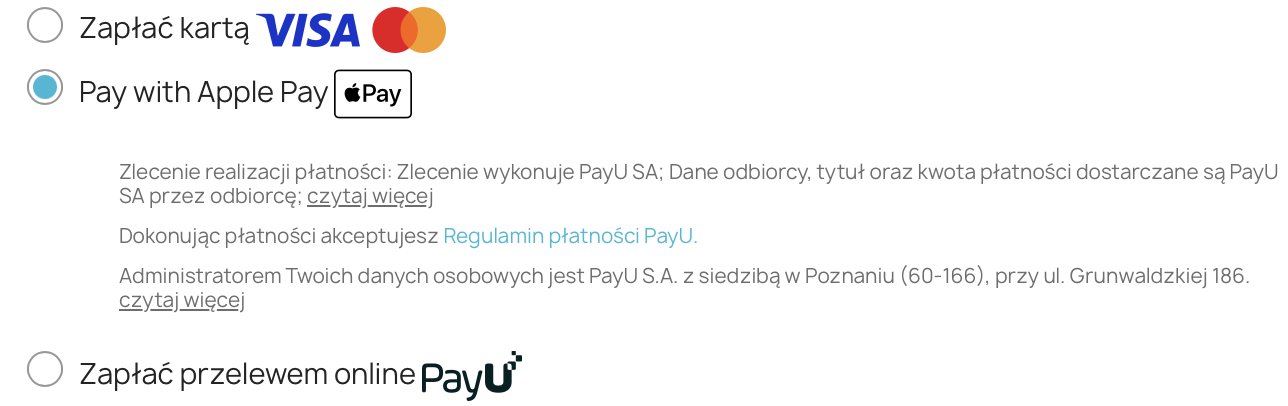
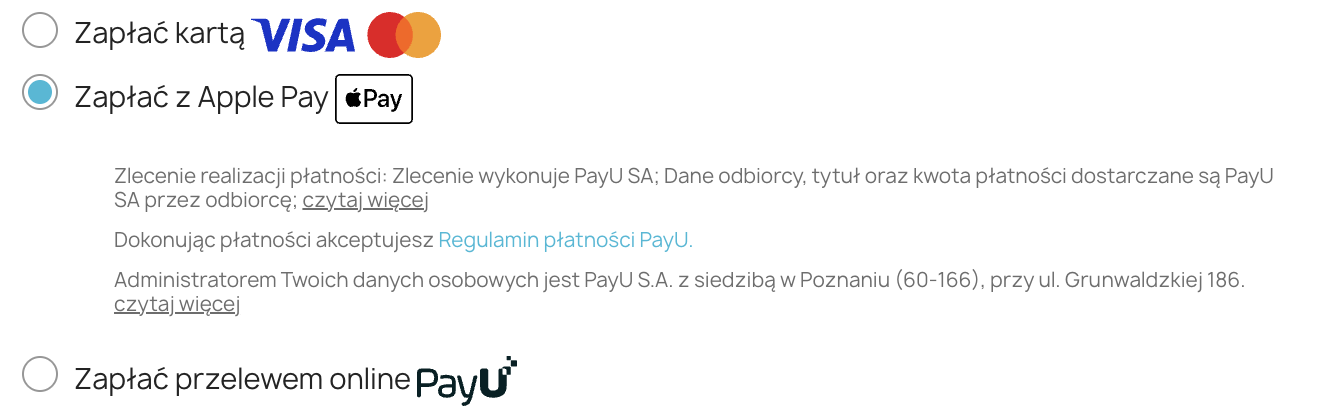
Add translations

diff --git a/payu/translations/pl.php b/payu/translations/pl.php
@@ -53,6 +53,14 @@ $_MODULE['<{payu}prestashop>payu_35ae0adc84718baea6dd215b30996a3a'] = 'Twój Goo
 $_MODULE['<{payu}prestashop>payu_9527430b599689da3a619a70095e0184'] = 'instrukcją';
 $_MODULE['<{payu}prestashop>payu_3aea295b2578bd8c6b2fc7938afde057'] = 'Google Merchant Name';
 $_MODULE['<{payu}prestashop>payu_fe942560f728d52f8e44a296095f3fd0'] = 'Twój Google Merchant name, widoczny dla kupującego.';
+$_MODULE['<{payu}prestashop>payu_697abb9a95cfe2c76cc3b71312ea176a'] = 'Apple Pay';
+$_MODULE['<{payu}prestashop>payu_d934b1ea749917e61c352859749307e0'] = 'Włącz Apple Pay';
+$_MODULE['<{payu}prestashop>payu_57ea1a814b12bff97d06e62d6cb435ab'] = 'Nazwa domeny';
+$_MODULE['<{payu}prestashop>payu_5d7f4c2c27818f8f31dc57a8e0e4d690'] = 'Nazwa domeny została zarejestrowana w serwisie Apple. Aby zarejestrować domenę, postępuj zgodnie z instrukcjami';
+$_MODULE['<{payu}prestashop>payu_cbde2df6a7c89370edc449dc5705d30c'] = 'intrukcje';
+$_MODULE['<{payu}prestashop>payu_279ac5dd73c3a5783ebeb10e172c4f38'] = 'WAŻNE';
+$_MODULE['<{payu}prestashop>payu_b48968e1c912da07df5e8d6d246291ec'] = 'Nazwa wyświetlana';
+$_MODULE['<{payu}prestashop>payu_1ba36b8d3c88096d5b850acb7b8d1e63'] = 'Nazwa wyświetlana w Apple Pay. Ciąg znaków UTF-8 o długości nieprzekraczającej 64 znaków, zawierający kanoniczną nazwę Twojego sklepu, nadającą się do wyświetlenia.';
 $_MODULE['<{payu}prestashop>payu_deae7d0459da98d05a517d9d45329c51'] = 'Konfiguracja POS-a - dla waluty: ';
 $_MODULE['<{payu}prestashop>payu_e9adbbd1cd7eff7e1a588c31f79521d5'] = 'Id punktu płatności';
 $_MODULE['<{payu}prestashop>payu_dbf679af91c0dcb70d6f4903907753a4'] = 'Drugi klucz MD5';
@@ -70,6 +78,7 @@ $_MODULE['<{payu}prestashop>payu_98b1aeea3b809f126c8c568af1be0174'] = 'Zapłać 
 $_MODULE['<{payu}prestashop>payu_8b30b72eb751e7549e99b8e2753098df'] = 'Zapłać na raty';
 $_MODULE['<{payu}prestashop>payu_cc21116ce900f38c0691823ab193b9a3'] = 'Zapłać kartą';
 $_MODULE['<{payu}prestashop>payu_ad7608ada46c853f7d02a30cddde3c8a'] = 'Zapłać z Google Pay';
+$_MODULE['<{payu}prestashop>payu_6f94a3731cb33d08e0f1cfe06091397b'] = 'Zapłać z Apple Pay';
 $_MODULE['<{payu}prestashop>payu_98ab4d4a3d466bd1b61b31c8ae0f094a'] = 'Zapłać BLIK-iem';
 $_MODULE['<{payu}prestashop>payu_3a236fb1c82cd58579049b70a46fcdc5'] = 'Zapłać przelewem online lub kartą';
 $_MODULE['<{payu}prestashop>payu_961d23fcb6c49cee1150dba52beb04ca'] = 'Zapłać przelewem online';
@@ -89,6 +98,7 @@ $_MODULE['<{payu}prestashop>payu_1a4bf0dd59a290f55a88831c7626c4b1'] = 'Aktualiza
 $_MODULE['<{payu}prestashop>payment_4ee6d629999f6d452457815ea199f5cc'] = 'Wybierz kanał płatności';
 $_MODULE['<{payu}prestashop>payment_30a8150f4551a03ddf806471b3f9dcb2'] = 'Brak tokena kartowego';
 $_MODULE['<{payu}prestashop>payment_bb64ce276cc18a869d6a0032c9f4a310'] = 'Brak tokena Google Pay';
+$_MODULE['<{payu}prestashop>payment_90c86a76af75c86952ba8490c3f523dc'] = 'Brak tokenu Apple Pay';
 $_MODULE['<{payu}prestashop>payment_1f6434ac894e727cc0f158c5ec119d24'] = 'Wystąpił błąd podczas procesowania płatności. Proszę spróbować ponownie lub skontaktować się ze sklepem.';
 $_MODULE['<{payu}prestashop>payment_e2b7dec8fa4b498156dfee6e4c84b156'] = 'Metoda płatności \"PayU\" jest niedostępna';
 $_MODULE['<{payu}prestashop>payment_8457277a28307ffccf7dbe86f93ffdcc'] = 'Moduł PayU jest nieaktywny.';
@@ -116,6 +126,11 @@ $_MODULE['<{payu}prestashop>googlepay16_974bdf69fdcf46ae701c90f279a73065'] = 'Wy
 $_MODULE['<{payu}prestashop>googlepay16_46b9e3665f187c739c55983f757ccda0'] = 'Potwierdzam moje zamówienie';
 $_MODULE['<{payu}prestashop>googlepay17_e2b7dec8fa4b498156dfee6e4c84b156'] = 'Ta metoda płatności nie jest dostępna.';
 $_MODULE['<{payu}prestashop>googlepay17_974bdf69fdcf46ae701c90f279a73065'] = 'Wystąpił błąd';
+$_MODULE['<{payu}prestashop>applepay16_e2b7dec8fa4b498156dfee6e4c84b156'] = 'Ta metoda płatności nie jest dostępna.';
+$_MODULE['<{payu}prestashop>applepay16_974bdf69fdcf46ae701c90f279a73065'] = 'Wystąpił błąd';
+$_MODULE['<{payu}prestashop>applepay16_46b9e3665f187c739c55983f757ccda0'] = 'Potwierdzam moje zamówienie';
+$_MODULE['<{payu}prestashop>applepay17_e2b7dec8fa4b498156dfee6e4c84b156'] = 'Ta metoda płatności nie jest dostępna.';
+$_MODULE['<{payu}prestashop>applepay17_974bdf69fdcf46ae701c90f279a73065'] = 'Wystąpił błąd';
 $_MODULE['<{payu}prestashop>secureform16_974bdf69fdcf46ae701c90f279a73065'] = 'Wystąpił błąd';
 $_MODULE['<{payu}prestashop>secureform16_46b9e3665f187c739c55983f757ccda0'] = 'Potwierdzam zamówienie';
 $_MODULE['<{payu}prestashop>secureform16_99938b17c91170dfb0c2f3f8bc9f2a85'] = 'Zapłać';
@@ -142,6 +157,7 @@ $_MODULE['<{payu}prestashop>checkout_installment_49c3ff437ddc797faa0448e26043b2c
 $_MODULE['<{payu}prestashop>payment16_cc21116ce900f38c0691823ab193b9a3'] = 'Zapłać kartą';
 $_MODULE['<{payu}prestashop>payment16_98ab4d4a3d466bd1b61b31c8ae0f094a'] = 'Zapłać BLIK-iem';
 $_MODULE['<{payu}prestashop>payment16_2a34963732b2fea04f1417120be393ae'] = 'Zapłać z Google Pay';
+$_MODULE['<{payu}prestashop>payment16_111999b13ca63380771744ea02c4906b'] = 'Zapłać z Apple Pay';
 $_MODULE['<{payu}prestashop>payment16_961d23fcb6c49cee1150dba52beb04ca'] = 'Zapłać przelewem online';
 $_MODULE['<{payu}prestashop>payment16_3a236fb1c82cd58579049b70a46fcdc5'] = 'Zapłać przelewem online lub kartą';
 $_MODULE['<{payu}prestashop>payment16_e3285e42a8110e81f687a6fe35e0f2c6'] = 'Zapłać później z Klarna';
